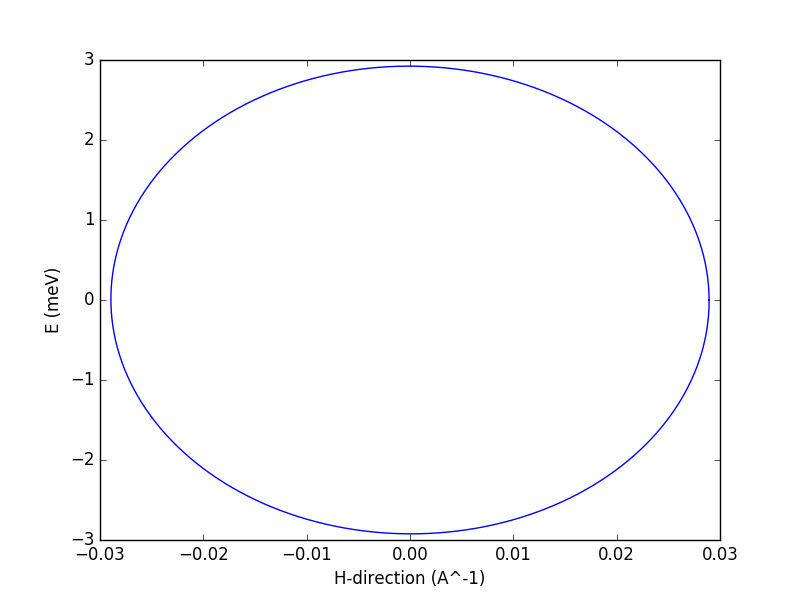
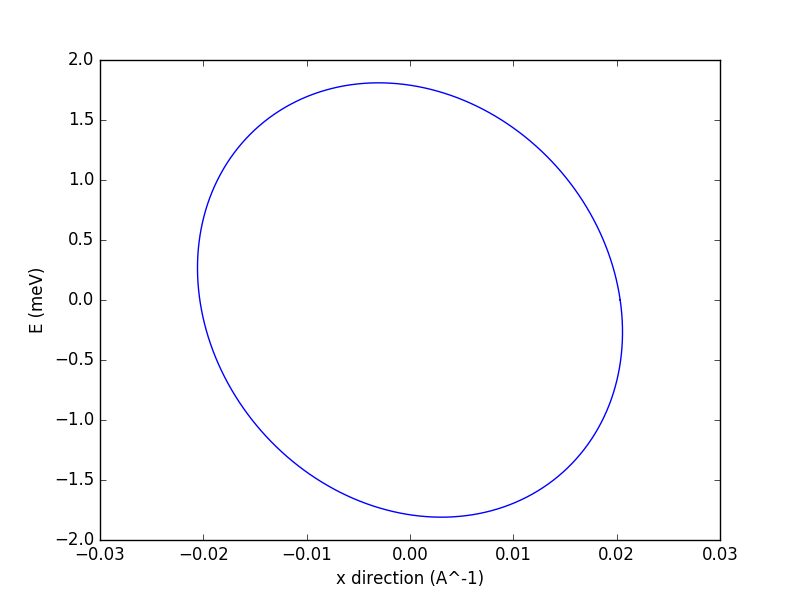
updates

diff --git a/avg_cov_mat_across_angle_sweep.py b/avg_cov_mat_across_angle_sweep.py
@@ -33,6 +33,14 @@ def HKLE_to_instrumentCoords(lattice, u, v, sample_angle, HKLE, Ei_meV, L12, Lms
 	# compute vQE at specified HKLE point
 	vQE = np.dot(HKLE_to_vQE_mat, HKLE)
 
+	# check if E is correct -- if not, change it:
+
+	# first, compute scalar Q (in inverse Angstroms)
+	Q_magnitude = np.sqrt(vQE[0]**2 + vQE[1]**2 + vQE[2]**2)
+	# change units to inverse meters
+	#Q_inverse_meters = Q_magnitude * 10**-10
+	Q_inverse_meters = Q_magnitude * 10**10
+
 	# compute final energy
 	E = HKLE[3]  # E = Ei - Ef
 	Ef_meV = Ei_meV - E
@@ -55,11 +63,54 @@ def HKLE_to_instrumentCoords(lattice, u, v, sample_angle, HKLE, Ei_meV, L12, Lms
 	# polar angle of detector pixel
 	theta = np.arccos(Qz / Q)
 
+	# Experimental test:  numpy only ouputs in [0,pi], but I believe I want the range [-pi/2, pi/2]:
+	#if theta > np.pi / 2.0:
+	#	theta = theta - np.pi
+
 	Qx_tmp1 = Qx / Q
 	Qx_tmp2 = Qx_tmp1 / np.sin(theta)
 
+	Qy_tmp1 = Qy / Q
+	Qy_tmp2 = Qy_tmp1 / np.sin(theta)
+
+	quadrants = set([1,2,3,4])
+	final_quadrant = 0
+
+	if np.sign(Qx) > 0:
+		quadrants.discard(2)
+		quadrants.discard(3)
+	else:
+		quadrants.discard(1)
+		quadrants.discard(4)
+	if np.sign(Qy) > 0:
+		quadrants.discard(3)
+		quadrants.discard(4)
+	else:
+		quadrants.discard(1)
+		quadrants.discard(2)
+	if 1 in quadrants:
+		final_quadrant = 1
+		phi = np.arccos(Qx_tmp2)
+	elif 2 in quadrants:
+		final_quadrant = 2
+		phi = np.arccos(Qx_tmp2)
+	elif 3 in quadrants:
+		final_quadrant = 3
+		phi_part1 = np.arccos(Qx_tmp2)
+		angle_to_x_axis = np.pi - phi_part1
+		phi = phi_part1 + 2.0 * angle_to_x_axis
+	elif 4 in quadrants:
+		final_quadrant = 4
+		phi = np.arcsin(Qy_tmp2)
+
 	# azimuthal angle of detector pixel
-	phi = np.arccos(Qx_tmp2)
+	# phi = np.arccos(Qx_tmp2)
+
+	# phi2 = np.arcsin(Qy_tmp2) #- np.pi / 2.0
+	# if phi2 < 0.0:
+	# 	phi2 = phi2 + np.pi
+	# if abs(phi - phi2) > 0.001:
+	# 	return "Error:  unable to compute azimuthal angle phi:  phi = " + str(phi) + ", phi2 = " + str(phi2)
 
 	# compute t12 (seconds)
 	t12 = L12 / vi

diff --git a/angle_quadrant_detector.py b/angle_quadrant_detector.py
@@ -1,0 +1,35 @@
+# test for python angle quadrant detection (assumes x,y != 0)
+import numpy as np
+
+x = -0.2
+y = 1.2
+
+quadrants = set([1,2,3,4])
+final_quadrant = 0
+
+if np.sign(x) > 0:
+	quadrants.discard(2)
+	quadrants.discard(3)
+else:
+	quadrants.discard(1)
+	quadrants.discard(4)
+if np.sign(y) > 0:
+	quadrants.discard(3)
+	quadrants.discard(4)
+else:
+	quadrants.discard(1)
+	quadrants.discard(2)
+if 1 in quadrants:
+	final_quadrant = 1
+elif 2 in quadrants:
+	final_quadrant = 2
+elif 3 in quadrants:
+	final_quadrant = 3
+elif 4 in quadrants:
+	final_quadrant = 4
+
+
+if final_quadrant == 0:
+	print "Error"
+else:
+	print final_quadrant

diff --git a/plot_covariance_ellipse.py b/plot_covariance_ellipse.py
@@ -77,16 +77,20 @@ def plot_quadform(A, x1, x2, chi2, x1_title, x2_title, debugMode=1):
 	x = X[0,:]
 	y = X[1,:]
 
+	# temporary
+	
+
 	# plotting
 	fig = plt.figure()
 	ax = fig.add_subplot(111)
 	ax.set_xlabel(x1_title)
 	ax.set_ylabel(x2_title)
 	plt.plot(x,y)
+	#plt.xlim([-.5,.5]) # experimental -- 01/12/17
 	plt.savefig("testing")
 	plt.show()
 
-#alternative version (this produces ellipses which appear more segmented for some reason)
+#alternative version (not working?) (this produces ellipses which appear more segmented for some reason)
 def plot_quadform_method2(A, x1, x2, chi2, x1_title, x2_title, debugMode=1):
 
 	Ainv = LA.inv(A)
